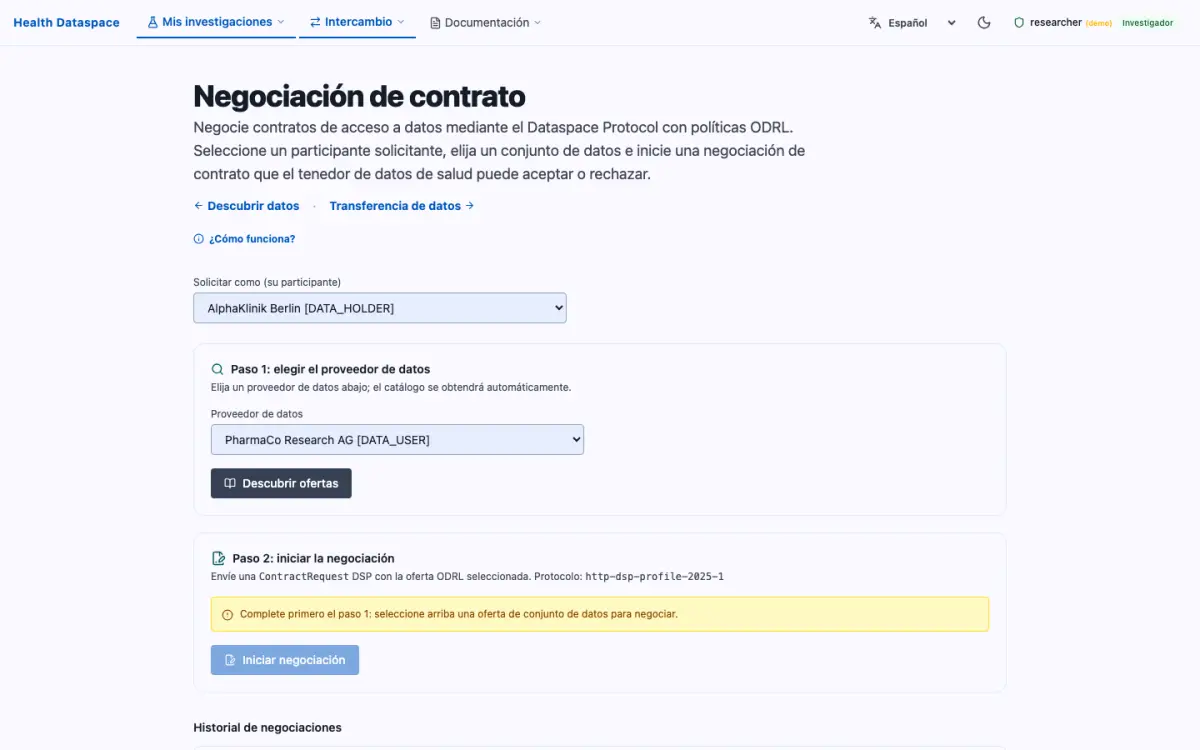
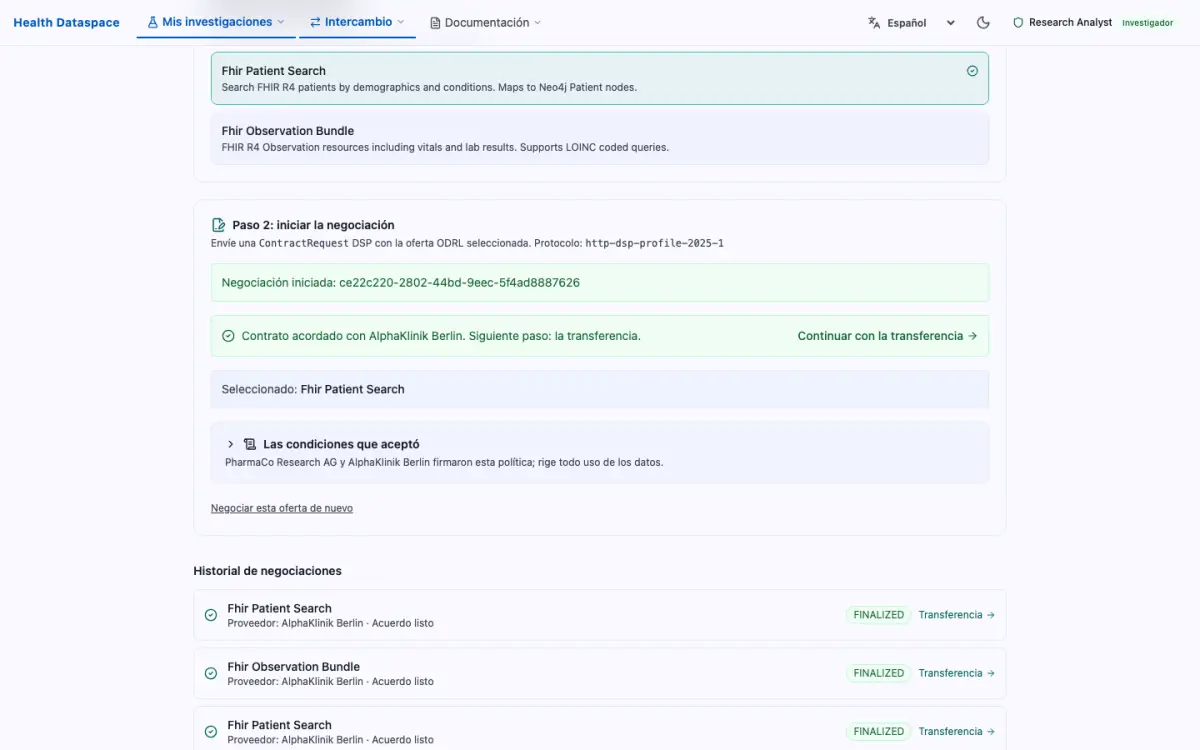
docs(guide): describe the negotiation as it runs now, with new screenshots
The Negotiate card listed a VERIFIED state and a counter-offer history
the page never had, and cited Art. 34. It now follows the page: the
offer's terms in plain words with the binding data permits, agreeing to
them, the provider's connector answering on its own, the page following
REQUESTED to FINALIZED and Continue to transfer.

The Negotiate and Transfer previews in all five languages are taken from
the local stack as the researcher; the old ones showed AlphaKlinik asking
PharmaCo and the transfer page before its contract list.

diff --git a/ui/src/app/docs/user-guide/page.tsx b/ui/src/app/docs/user-guide/page.tsx
@@ -1664,12 +1664,12 @@ export default function UserGuidePage() {
           >
             <p className="text-(--text-secondary) text-sm mb-2">
               {t(
-                "Initiate and track DSP contract negotiations with data holders. View negotiation state (REQUESTED, AGREED, VERIFIED, FINALIZED), ODRL policy terms, and counter-offer history. Contract negotiation ensures that data access terms are mutually agreed before any transfer occurs, as required by EHDS Art. 34.",
+                "Ask a data holder for a contract before any data moves. Requesting as is the participant you act for. Step 1 lists the providers that offer to it, and Discover Offers fetches their DSP catalog. The offer you select shows its ODRL terms in plain words (what it allows, for how long, on which conditions, what it forbids and what you must do) and the data permits that bind the use as well; once you agree to them on behalf of your participant, Step 2 sends a DSP ContractRequest for that offer. The provider's connector checks the request against its offer and answers on its own: nobody at the provider has to sign in. The page follows the negotiation from REQUESTED to FINALIZED and then offers Continue to transfer; a refused request ends TERMINATED with its reason. The history lists every negotiation of your participant, with a link to the transfer for each agreed one.",
               )}
             </p>
             <p className="text-(--text-secondary) text-xs italic">
               {t(
-                "Example: PharmaCo Research AG initiates a contract negotiation with AlphaKlinik Berlin for the diabetes cohort. The negotiation progresses to FINALIZED with an EHDS Art. 33(c) research use policy.",
+                "Example: PharmaCo Research AG asks AlphaKlinik Berlin for Fhir Patient Search. A few seconds later the negotiation is FINALIZED, and Continue to transfer opens the agreed contract on the Data Transfer page.",
               )}
             </p>
           </FeatureCard>

diff --git a/docs/user-guide.md b/docs/user-guide.md
@@ -112,7 +112,7 @@ describes every page below and shows a screenshot of each on mouse-over.
 | Secondary Use Information | /information        | What a person should know about secondary use (Art. 58)         | No            |
 | Share Data                | /data/share         | Publish datasets with ODRL policies (Art. 51, 60)               | Yes           |
 | Discover                  | /data/discover      | Federated catalog search                                        | Yes           |
-| Negotiate                 | /negotiate          | DSP contract negotiation lifecycle                              | Yes           |
+| Negotiate                 | /negotiate          | Ask a provider for a contract, follow it to FINALIZED           | Yes           |
 | Tasks                     | /tasks              | Transfer task queue                                             | Yes           |
 | Transfer                  | /data/transfer      | Start a transfer, open the data, import it into an SPE          | Yes           |
 | Admin Dashboard           | /admin              | Operator overview                                               | Yes           |
